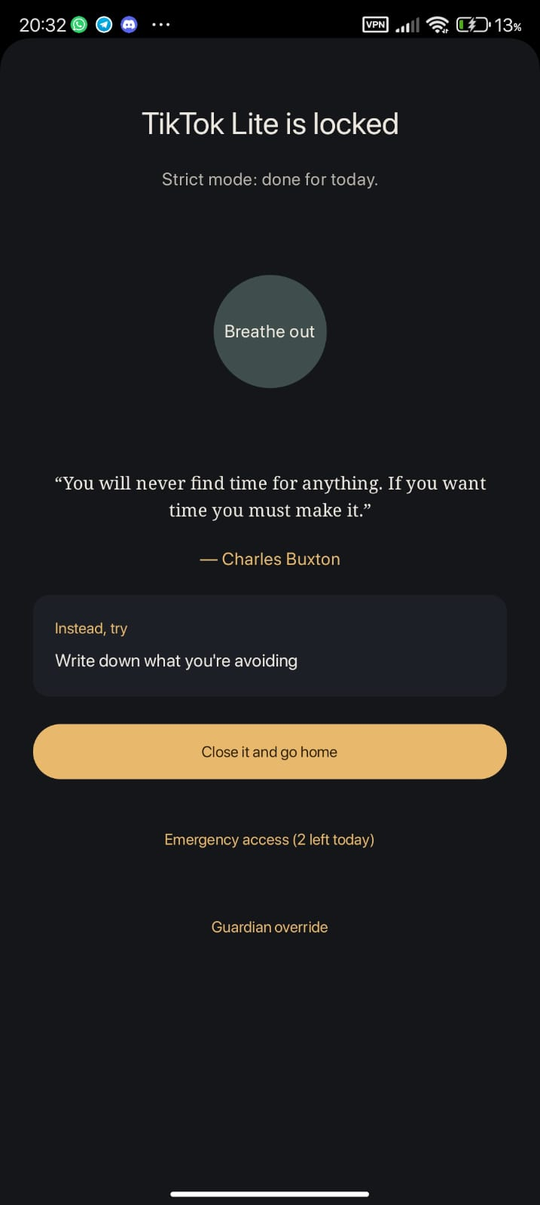
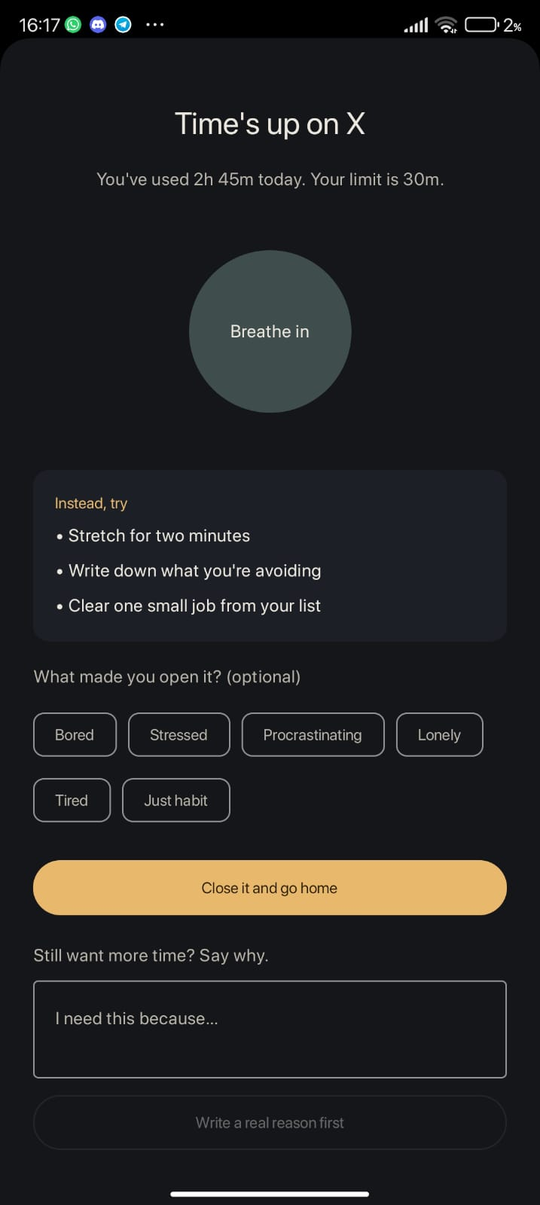
Update site and screenshots for 1.1

diff --git a/docs/index.html b/docs/index.html
@@ -65,8 +65,6 @@ p{margin:0 0 14px;max-width:62ch}
 @keyframes breathe{0%,100%{transform:scale(.72)}50%{transform:scale(1)}}
 @keyframes fadeIn{0%,45%{opacity:1}50%,95%{opacity:0}100%{opacity:1}}
 @keyframes fadeOut{0%,45%{opacity:0}50%,95%{opacity:1}100%{opacity:0}}
-.live blockquote{margin:0 0 20px;font:italic 1.02rem/1.5 Georgia,"Times New Roman",serif;color:#f2f4f8}
-.live blockquote cite{display:block;margin-top:8px;font:normal .85rem var(--body);color:var(--sun)}
 .live .try{width:100%;background:#1f232b;border-radius:14px;padding:12px 14px;text-align:left;margin-bottom:14px}
 .live .try small{display:block;color:var(--sun);font-size:.78rem}
 .live .go{width:100%;background:var(--sun);color:#2a1d05;font-weight:600;border-radius:999px;padding:12px;font-size:.95rem}
@@ -84,8 +82,7 @@ p{margin:0 0 14px;max-width:62ch}
 /* One loud band */
 .band{background:var(--teal-deep);color:#e9f2f3;padding:88px 0}
 .band .wrap{display:grid;grid-template-columns:1fr 1fr;gap:56px;align-items:center}
-.band blockquote{margin:0;font:700 clamp(2rem,4.6vw,3.2rem)/1.12 var(--display);letter-spacing:-.02em;color:#fff}
-.band blockquote cite{display:block;margin-top:18px;font:500 1rem var(--body);letter-spacing:0;color:var(--sun)}
+.band .big{margin:0;font:700 clamp(2rem,4.6vw,3.2rem)/1.12 var(--display);letter-spacing:-.02em;color:#fff}
 .band p{color:#c6dadd}
 .band h2{color:#fff;font-size:clamp(1.6rem,3.4vw,2.2rem)}
 
@@ -150,13 +147,12 @@ footer p{margin:0;max-width:none}
       <p class="fine">Free, for Android 8 and newer. No account, no ads. Everything stays on your phone.</p>
     </div>
 
-    <div class="phone" role="img" aria-label="The DoomGuard pause screen: a breathing circle, a quote and a button to close the app">
+    <div class="phone" role="img" aria-label="The DoomGuard pause screen: a breathing circle, a few better ideas and a button to close the app">
       <div class="live">
         <h2>Instagram is paused</h2>
         <p class="sub">You've used your 30 minutes today.</p>
         <div class="ring"><span class="in">Breathe in</span><span class="out">Breathe out</span></div>
-        <blockquote>“While we are postponing, life speeds by.”<cite>Seneca</cite></blockquote>
-        <div class="try"><small>Instead, try</small>Write down what you're avoiding</div>
+        <div class="try"><small>Instead, try</small>• Finish the report for Monday<br>• Make a hot drink<br>• Write tomorrow's top task on paper</div>
         <div class="go">Close it and go home</div>
       </div>
     </div>
@@ -181,7 +177,7 @@ footer p{margin:0;max-width:none}
       </figure>
       <figure>
         <div class="phone"><img src="screenshots/pause.png" alt="Pause screen shown over a locked app" loading="lazy"></div>
-        <figcaption><h3>Meet the pause</h3><p>A breathing circle, a thought about the choice you're making, and something better to do.</p></figcaption>
+        <figcaption><h3>Meet the pause</h3><p>A breathing circle, then a few better ideas: your own list from Today, and small things that fit the time of day.</p></figcaption>
       </figure>
     </div>
   </div>
@@ -189,10 +185,10 @@ footer p{margin:0;max-width:none}
 
 <section class="band">
   <div class="wrap">
-    <blockquote>“How we spend our days is, of course, how we spend our lives.”<cite>Annie Dillard</cite></blockquote>
+    <p class="big">Scrolling stops being automatic when it takes a decision.</p>
     <div>
-      <h2>A pause built to make you think</h2>
-      <p>Every pause screen shows a line chosen to question the habit, not to scold you. Extra time is possible, but it comes in small pieces, with a wait before each one, and then the app locks for the day.</p>
+      <h2>A pause that gives you a choice</h2>
+      <p>The pause screen doesn't scold you. It makes you stop for a few breaths and suggests better things to do, starting with what you planned for today. Extra time is possible, but it comes in small pieces, with a wait before each one, and then the app locks for the day.</p>
     </div>
   </div>
 </section>
